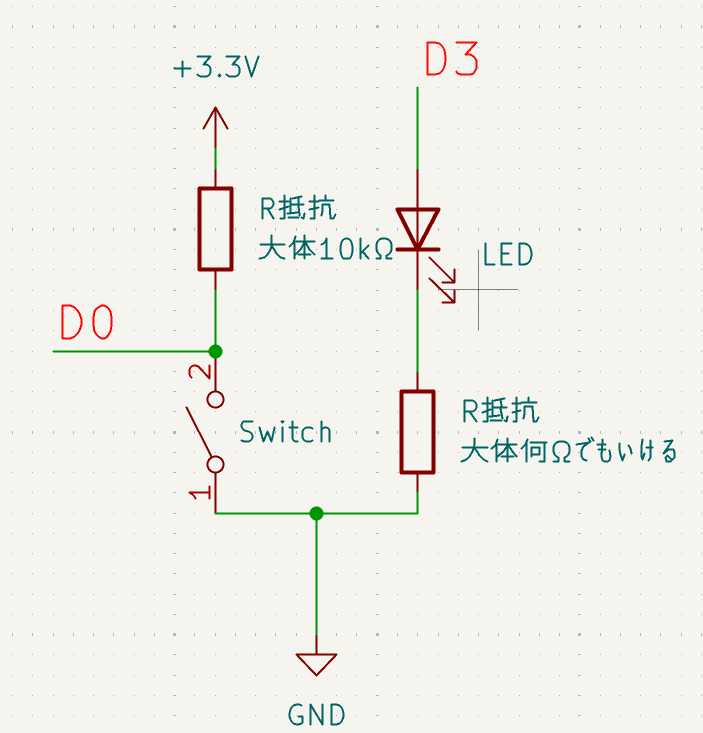
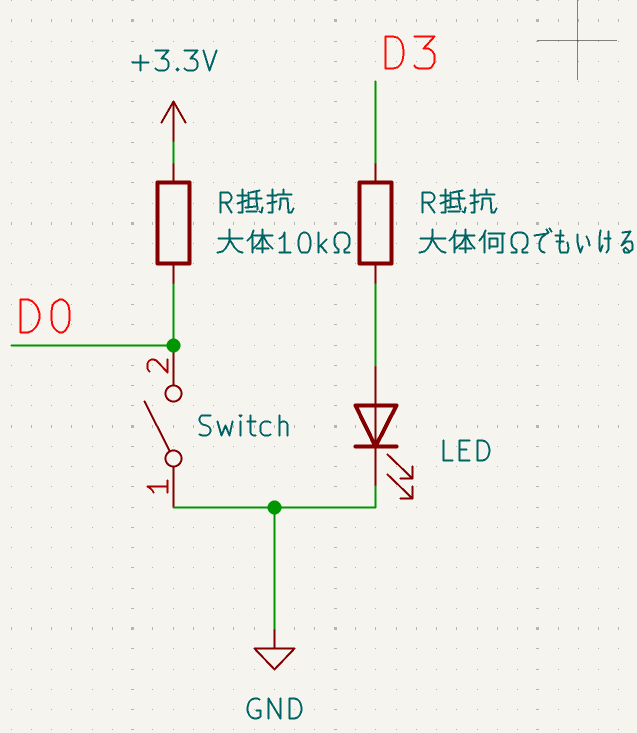
大敗

diff --git a/firmware/lesson01_microcontroller_basic/src/main.cpp b/firmware/lesson01_microcontroller_basic/src/main.cpp
@@ -1,7 +1,7 @@
 #include <Arduino.h>
 
-const int pinLed = D0;
-const int pinButton = D3;
+const int pinLed = D3;
+const int pinButton = D0;
 
 void setup() {
   Serial.begin(115200);
